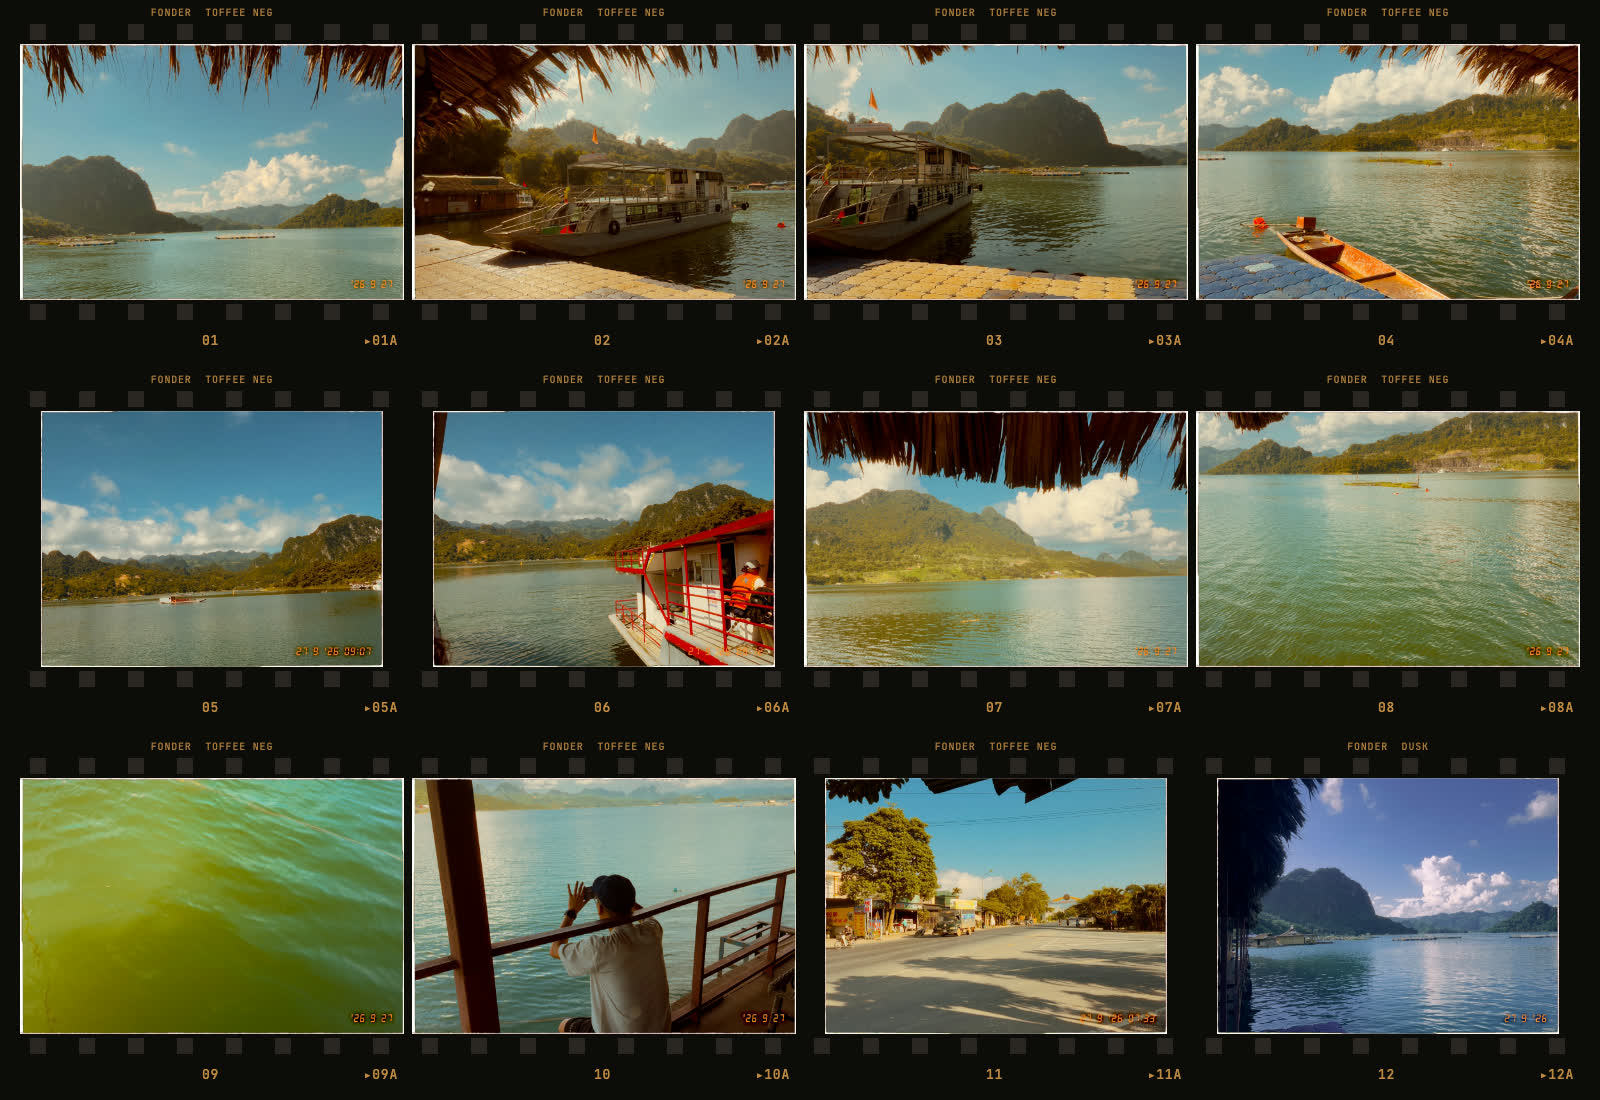
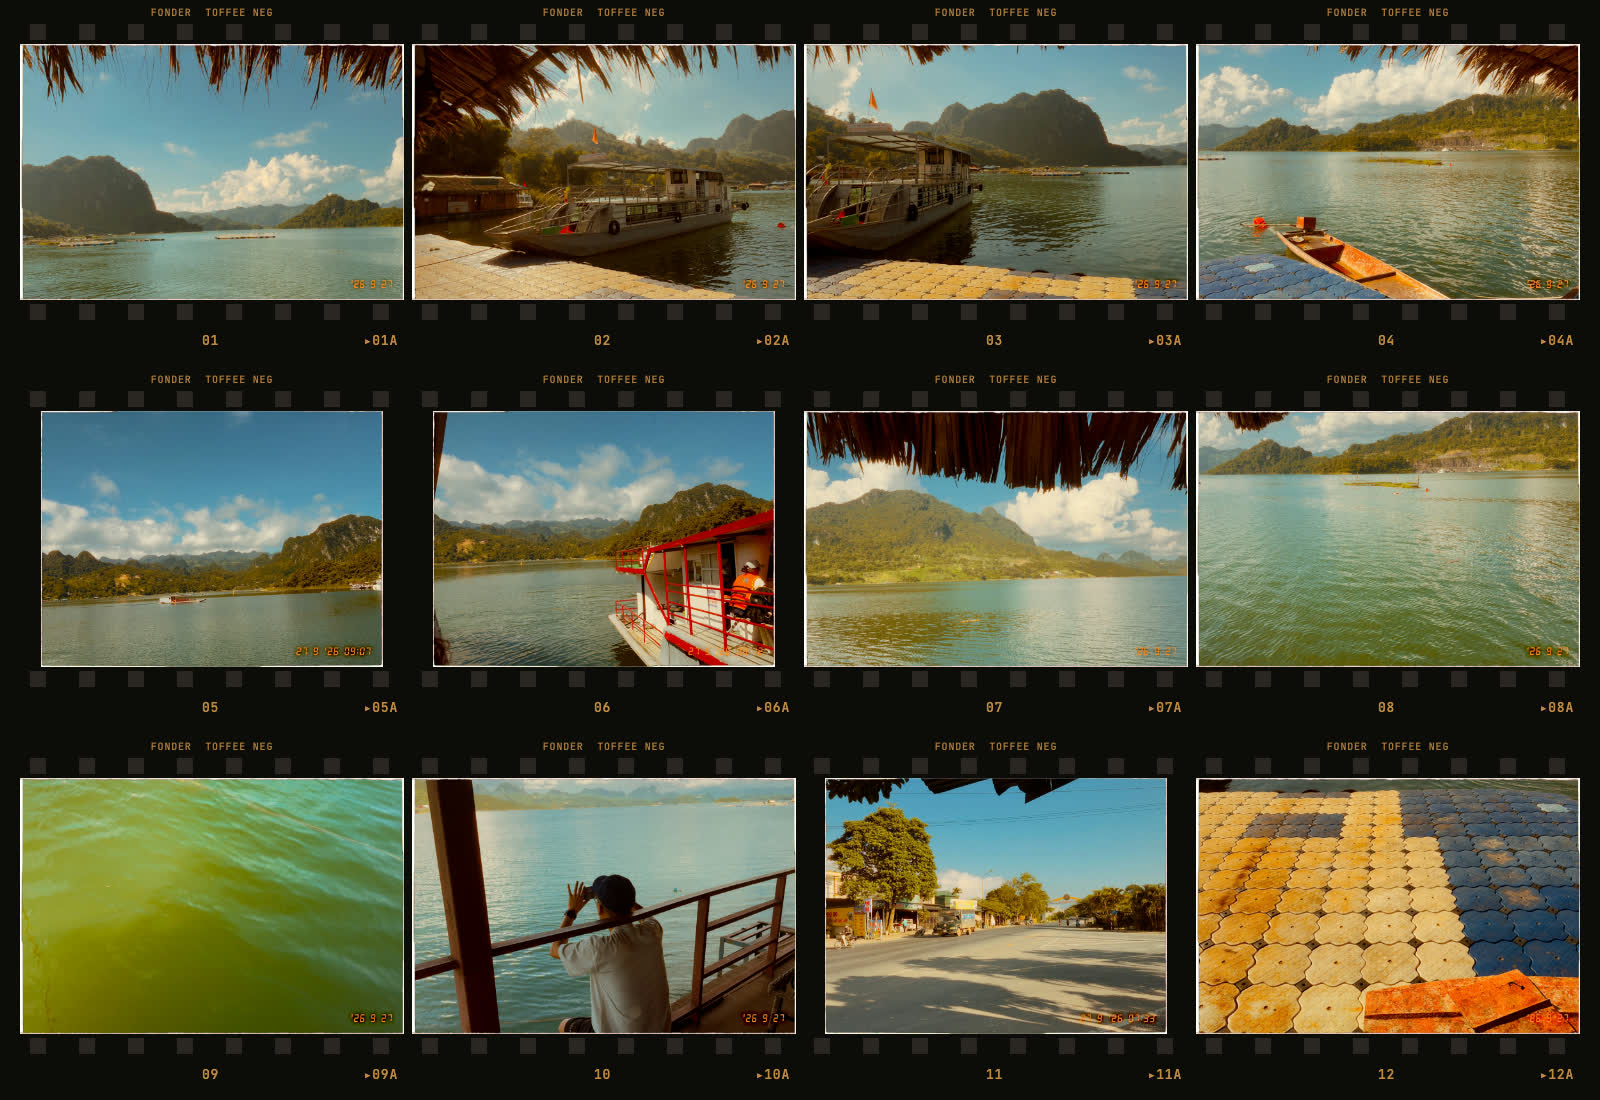
feat(home): frame 12 of the roll is Toffee Neg too

Changed region(s): [[0.75, 0.68, 1.0, 0.9582]]

diff --git a/tools/roll_images.py b/tools/roll_images.py
@@ -2,7 +2,7 @@
 """Make the homepage photos from Hai's Film Roll renders (final Fonder HEICs: film look, border
 and date stamp already baked in — never re-rendered, never cropped).
 
-  python3 tools/roll_images.py [SOURCE_DIR]     (default: ~/Downloads/today)
+  python3 tools/roll_images.py [SOURCE_DIR]     (default: ~/Downloads/new shooting)
 
 Writes img/home/prints/01..06.jpg, develop/f01..f12.jpg, contact.jpg and og.jpg.
 Needs macOS sips, ffmpeg, exiftool and Google Chrome. Every output is stripped of metadata.
@@ -43,7 +43,7 @@ ROLL = [
     (f"{TOFFEE}/render 2", "Toffee Neg"), (f"{TOFFEE}/render 3", "Toffee Neg"),
     (f"{TOFFEE}/render 4", "Toffee Neg"), (f"{TOFFEE}/render 5", "Toffee Neg"),
     (f"{TOFFEE}/render 7", "Toffee Neg"), (f"{TOFFEE}/render copy 2", "Toffee Neg"),
-    (f"{DUSK}/render 5", "Dusk"),
+    ("../Toffee Neg 0436", "Toffee Neg"),   # ~/Downloads/Toffee Neg 0436.heic, pontoon tiles
 ]
 
 # Chapter 3 prints, in fan order: (source, film). tools/build_home.py FAN_PRINTS labels them.
@@ -157,7 +157,7 @@ def main(argv):
         slider(Path(argv[1]), Path(argv[2]))
         print("roll_images: wrote develop-before.jpg, develop-after.jpg")
         return
-    src = Path(argv[0] if argv else Path.home() / "Downloads/today").expanduser()
+    src = Path(argv[0] if argv else Path.home() / "Downloads/new shooting").expanduser()
     heic = lambda name: src / f"{name}.HEIC"
     with tempfile.TemporaryDirectory() as d:
         work = Path(d)

diff --git a/README.md b/README.md
@@ -15,7 +15,7 @@ edit the sources below, then rebuild.
   `python3 tools/build_home.py --check` verifies config, strings, image budget
   and that the committed pages match the sources, without writing anything.
 - **Photos:** `python3 tools/roll_images.py [SOURCE_DIR]` makes the shoot, print, roll-thumbnail,
-  contact-sheet and share images from Film Roll renders (HEIC, default `~/Downloads/today`), keeping
+  contact-sheet and share images from Film Roll renders (HEIC, default `~/Downloads/new shooting`), keeping
   every border and date stamp and stripping metadata. The photo-to-slot mapping is at the top of the script.
   Needs sips, ffmpeg, exiftool and Chrome.
 - **Switching the stage:** set `stage` in `config.json` to `follow`, `testflight`
